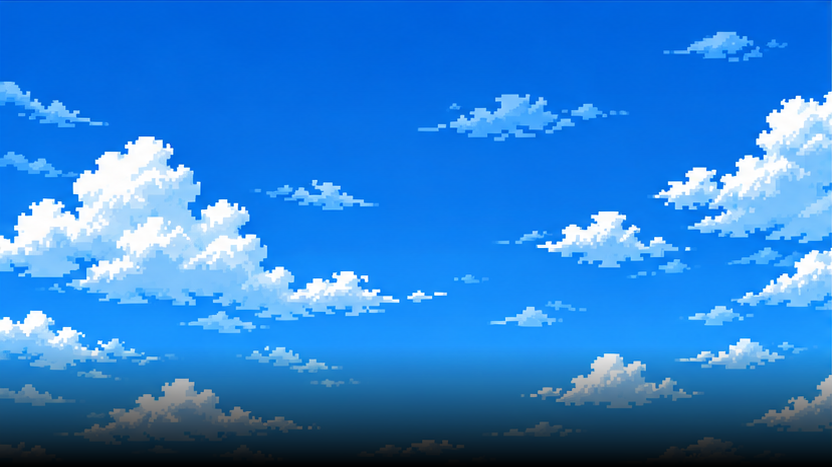
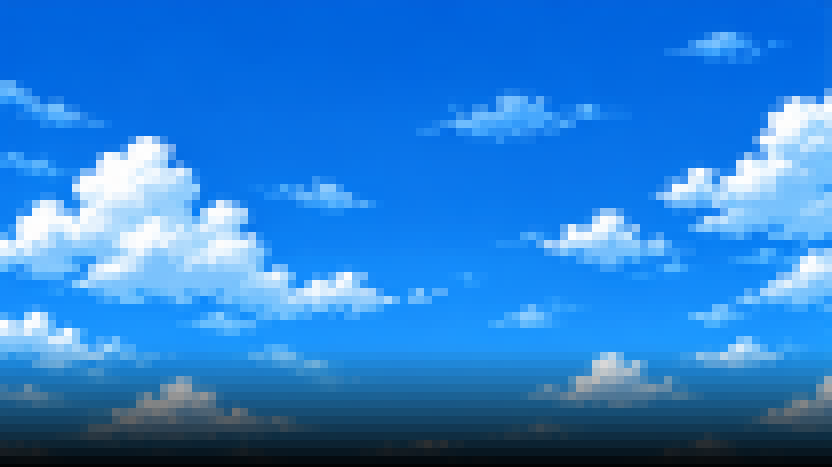
Save

diff --git a/src/DEFAULT8THEME/SCENES/MAIN/SUB/FIRST8PERSON8VIEW/FIRST8PERSON8VIEW.CPP b/src/DEFAULT8THEME/SCENES/MAIN/SUB/FIRST8PERSON8VIEW/FIRST8PERSON8VIEW.CPP
@@ -48,13 +48,13 @@ namespace FORRADIA8GAME {
         auto skyImageName{"Sky_" + std::to_string(skyAnimIndex)};
 
         _<IMAGE8RENDERER>().DRAW8IMAGE(skyImageName, 1.0F - viewWidth, 0.0F, viewWidth,
-                                       0.5F);
+                                       0.4F);
 
         // _<COLOR8RENDERER>().FILL8RECT(1.0F - viewWidth, 0.0F, viewWidth,
         // 0.5F,
         //                               COLORS::kMildBlue);
 
-        _<COLOR8RENDERER>().FILL8RECT(1.0F - viewWidth, 0.5F, viewWidth, 0.5F,
+        _<COLOR8RENDERER>().FILL8RECT(1.0F - viewWidth, 0.4F, viewWidth, 0.6F,
                                       COLORS::kVeryDarkBlue);
 
         auto now{NOW()};
